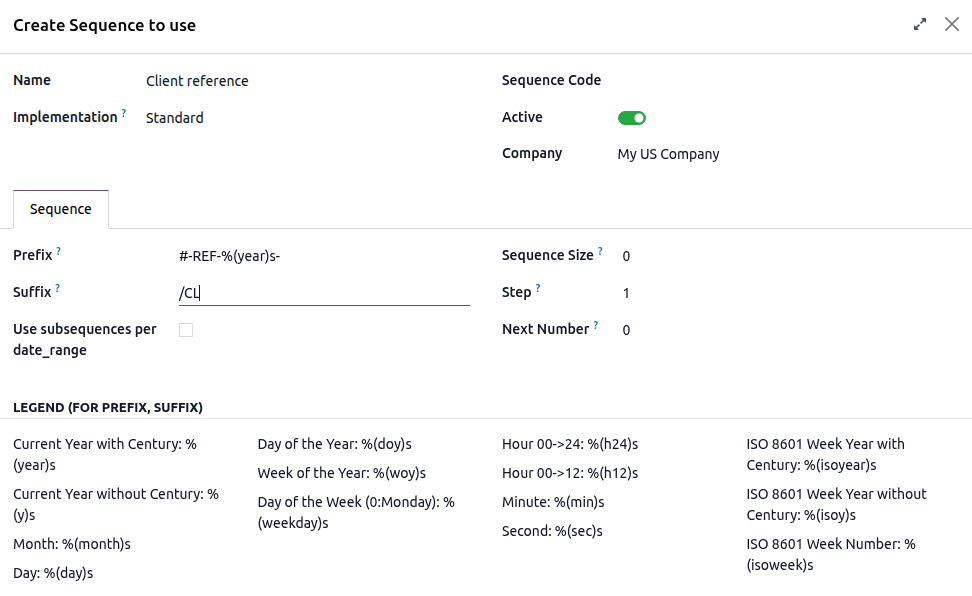
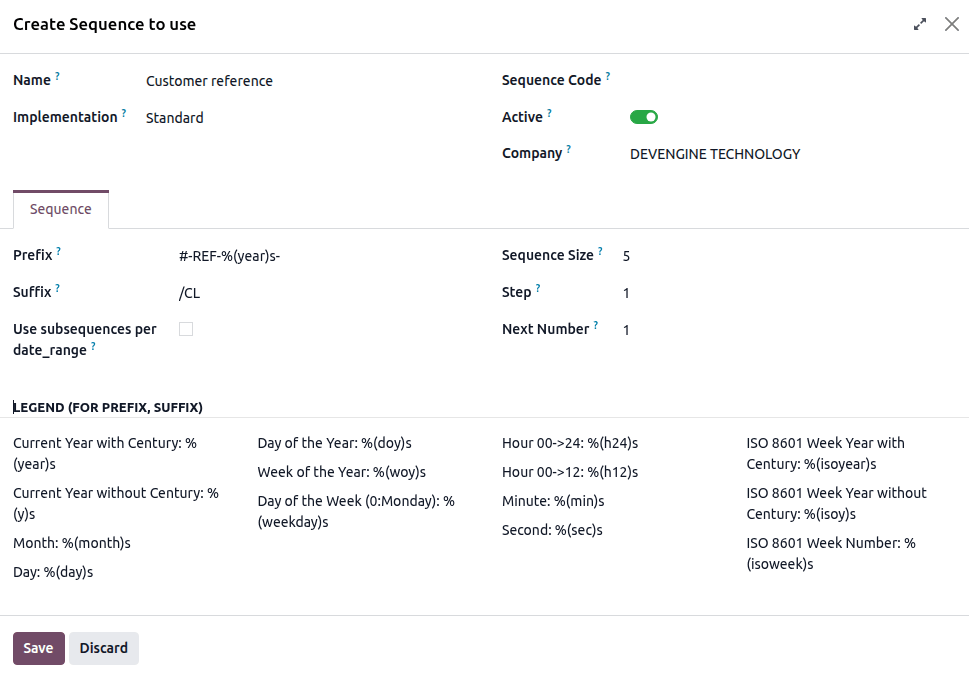
[IMP] studio: typeahead search, primary vs secondary buttons, sequence
task-5190016

X-original-commit: 7209c4887b1f20a921b5a6936ed6169a8d920725

diff --git a/content/applications/studio/automated_actions.rst b/content/applications/studio/automated_actions.rst
@@ -322,12 +322,24 @@ Select an existing sequence or, to create a new sequence:
 
 #. Click :guilabel:`Search more`, then click :guilabel:`New`.
 #. In the window that opens, enter the :guilabel:`Name` of the sequence.
-#. Configure the sequence, adding a :guilabel:`Prefix` and/or :guilabel:`Suffix` as desired.
+#. In the :guilabel:`Sequence` tab, configure the sequence:
+
+   - :guilabel:`Prefix`: characters added *before* the next number in the sequence.
+   - :guilabel:`Suffix`: characters added *after* the next number in the sequence.
+   - :guilabel:`Sequence Size`: determines the number of digits in every number in the sequence. If
+     needed, leading zeros are added before the number to achieve the indicated sequence size, e.g.,
+     for a sequence size of `5`, the first number in the sequence is `00001`.
+   - :guilabel:`Step`: determines the increments between the numbers in the sequence.
+   - :guilabel:`Next Number`: the next number that will be used in the sequence, without leading
+     zeros.
 
    .. tip::
-      Use dynamic placeholders like :guilabel:`Current Year with Century: %(year)s` in the
-      :guilabel:`Prefix` and/or :guilabel:`Suffix` to create sequences with elements like current
-      year, month, etc. Possible placeholders are shows at the bottom of the window.
+      - Use dynamic placeholders like `%(year)s` or `%(month)s` as a :guilabel:`Prefix` and/or
+        :guilabel:`Suffix` to create sequences with elements like current year, month, etc. Possible
+        placeholders are shown at the bottom of the window.
+      - To use sub-sequences, e.g., to have the sequence restart each year or each month, enable
+        :guilabel:`Use subsequences per date_range`, then :guilabel:`Add a line` for each date
+        range and indicate the :guilabel:`Next Number` for the range.
 
 #. Click :guilabel:`Save`.
 
@@ -336,7 +348,9 @@ Select an existing sequence or, to create a new sequence:
    customer is created, set the :guilabel:`Sequence` field to :guilabel:`Reference`, then, in the
    dropdown, click :guilabel:`Search more`. Click :guilabel:`New` to create a new sequence.
 
-   In the example, each new customer receives a sequential reference with the prefix `
+   In the example, each new customer receives a sequential reference with the prefix
+   `#-REF-%(year)s-`, where `%(year)s` is the current year including the century, and the suffix
+   `/CL`, e.g., `#-REF-2025-00001/CL`, `#-REF-2025-00002/CL`, etc.
 
    .. image:: automated_actions/update-record-sequence.png
       :alt: Example of an Update Record action using a sequence

diff --git a/content/applications/studio/views.rst b/content/applications/studio/views.rst
@@ -53,15 +53,24 @@ contacts, sales orders, products, etc.
   - :guilabel:`Call a method`: specify an existing Python method already defined in Odoo.
 
 - To change a button's label or style, click the button and edit its :guilabel:`Label` or
-  :guilabel:`Class` (either `btn-primary` or `btn-secondary`) in the :guilabel:`Properties` tab.
+  :guilabel:`Class` (either `btn-primary` for a *primary* button or `btn-secondary` for a
+  *secondary* button) in the :guilabel:`Properties` tab.
+
+  .. tip::
+     *Primary* buttons represent the main action(s) the user can take in a specific view, e.g.,
+     :guilabel:`Send` a request for quotation, and are more visually prominent. *Secondary* buttons
+     offer alternative or less common actions, e.g., :guilabel:`Print` or :guilabel:`Preview` a
+     request for quotation, and are less visually prominent. By default, a new button is styled as a
+     secondary button.
+
 - To add a smart button, click the :icon:`fa-plus-square` (:guilabel:`plus`) icon in the top-right
   corner of the form. Enter a :guilabel:`Label`, choose an :guilabel:`Icon`, and select a
   :ref:`related field <studio/fields/relational-fields-related-field>`.
 
 .. example::
 
-   .. image:: views/form-sales-order.png
-      :alt: Sales order model's Form view
+   .. image:: views/form-new-quotation.png
+      :alt: Quotation Template model's Form view
 
 .. _studio/views/general/activity:
 

diff --git a/content/applications/studio/fields.rst b/content/applications/studio/fields.rst
@@ -386,6 +386,9 @@ being edited. The record's name from the other model is then displayed on the re
      creation`.
    - To prevent users from opening records in a pop-up window, tick :guilabel:`Disable opening`.
    - To help users only select the right record, click on :guilabel:`Domain` to create a filter.
+   - To only trigger the search for a linked record after a minimum number of characters has been
+     entered, enter the desired number in the :guilabel:`Typeahead search` field. In situations
+     where the data set is large, this can enhance both search relevancy and performance.
 
 - :guilabel:`Badge`: displays the value inside a rounded shape, similar to a tag. The value cannot
   be edited on the UI.
@@ -446,6 +449,11 @@ records on the current model. Many2Many fields can use :guilabel:`Disable creati
 
    .. image:: fields/many2many-diagram.png
       :alt: Diagram showing many2many relationships
+
+.. tip::
+   To only trigger the search for the linked record after a minimum number of characters has been
+   entered, enter the desired number in the :guilabel:`Typeahead search` field. In situations where
+   the data set is large, this can enhance both search relevancy and performance.
 
 - :guilabel:`Checkboxes`: users can select several values using checkboxes.
 - :guilabel:`Tags`: users can select several values appearing in rounded shapes, also known as
